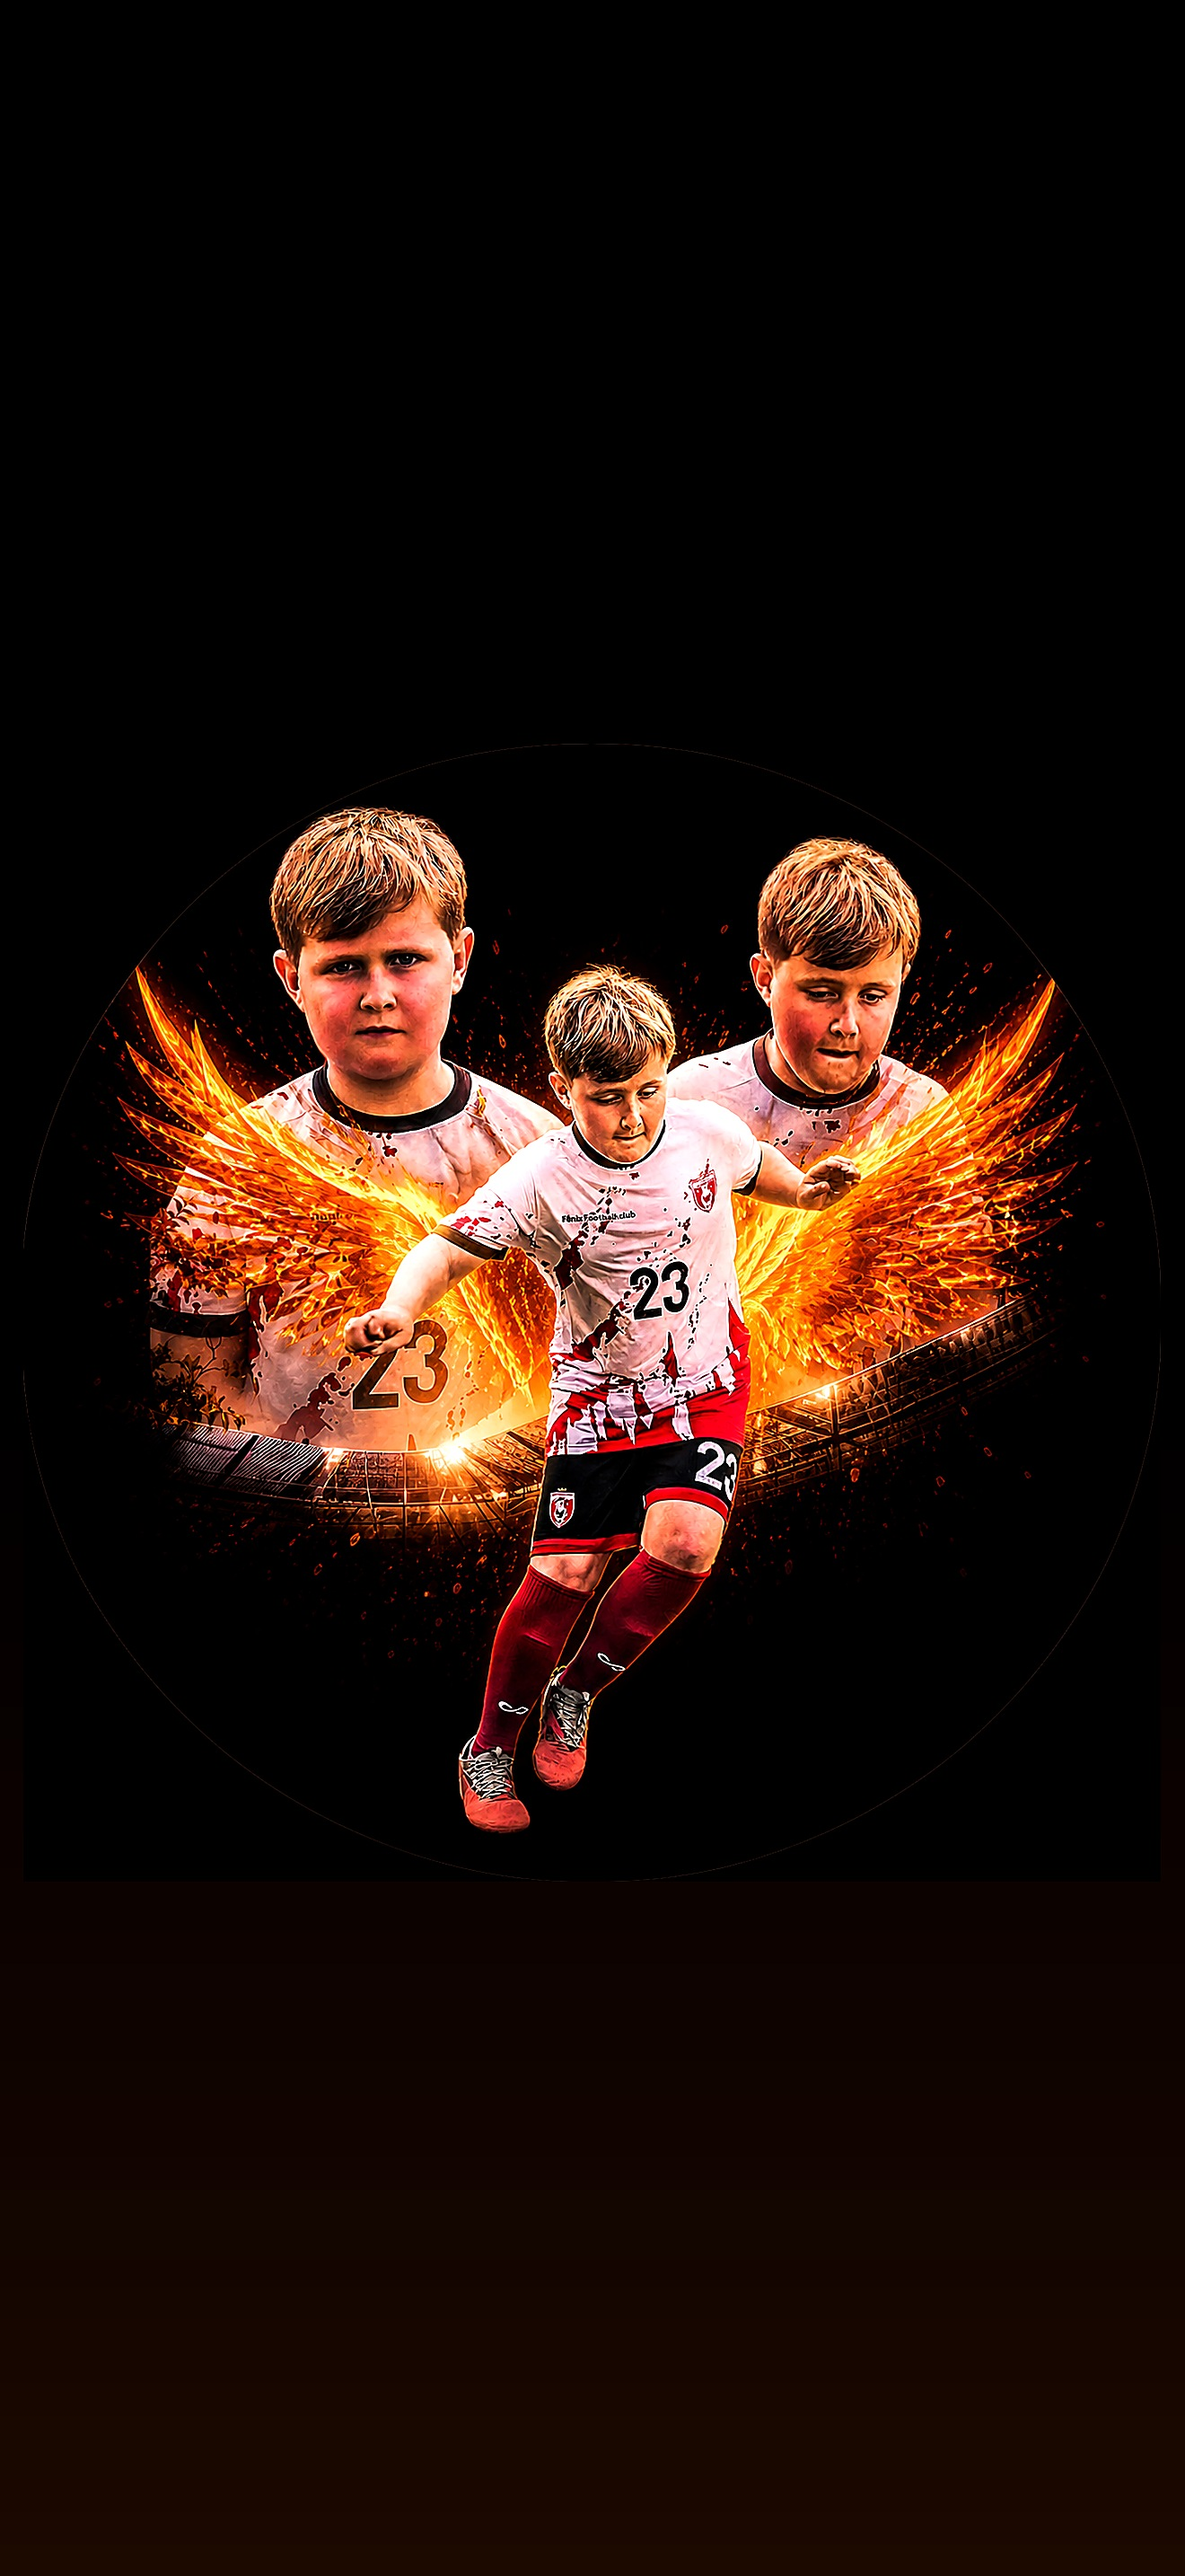
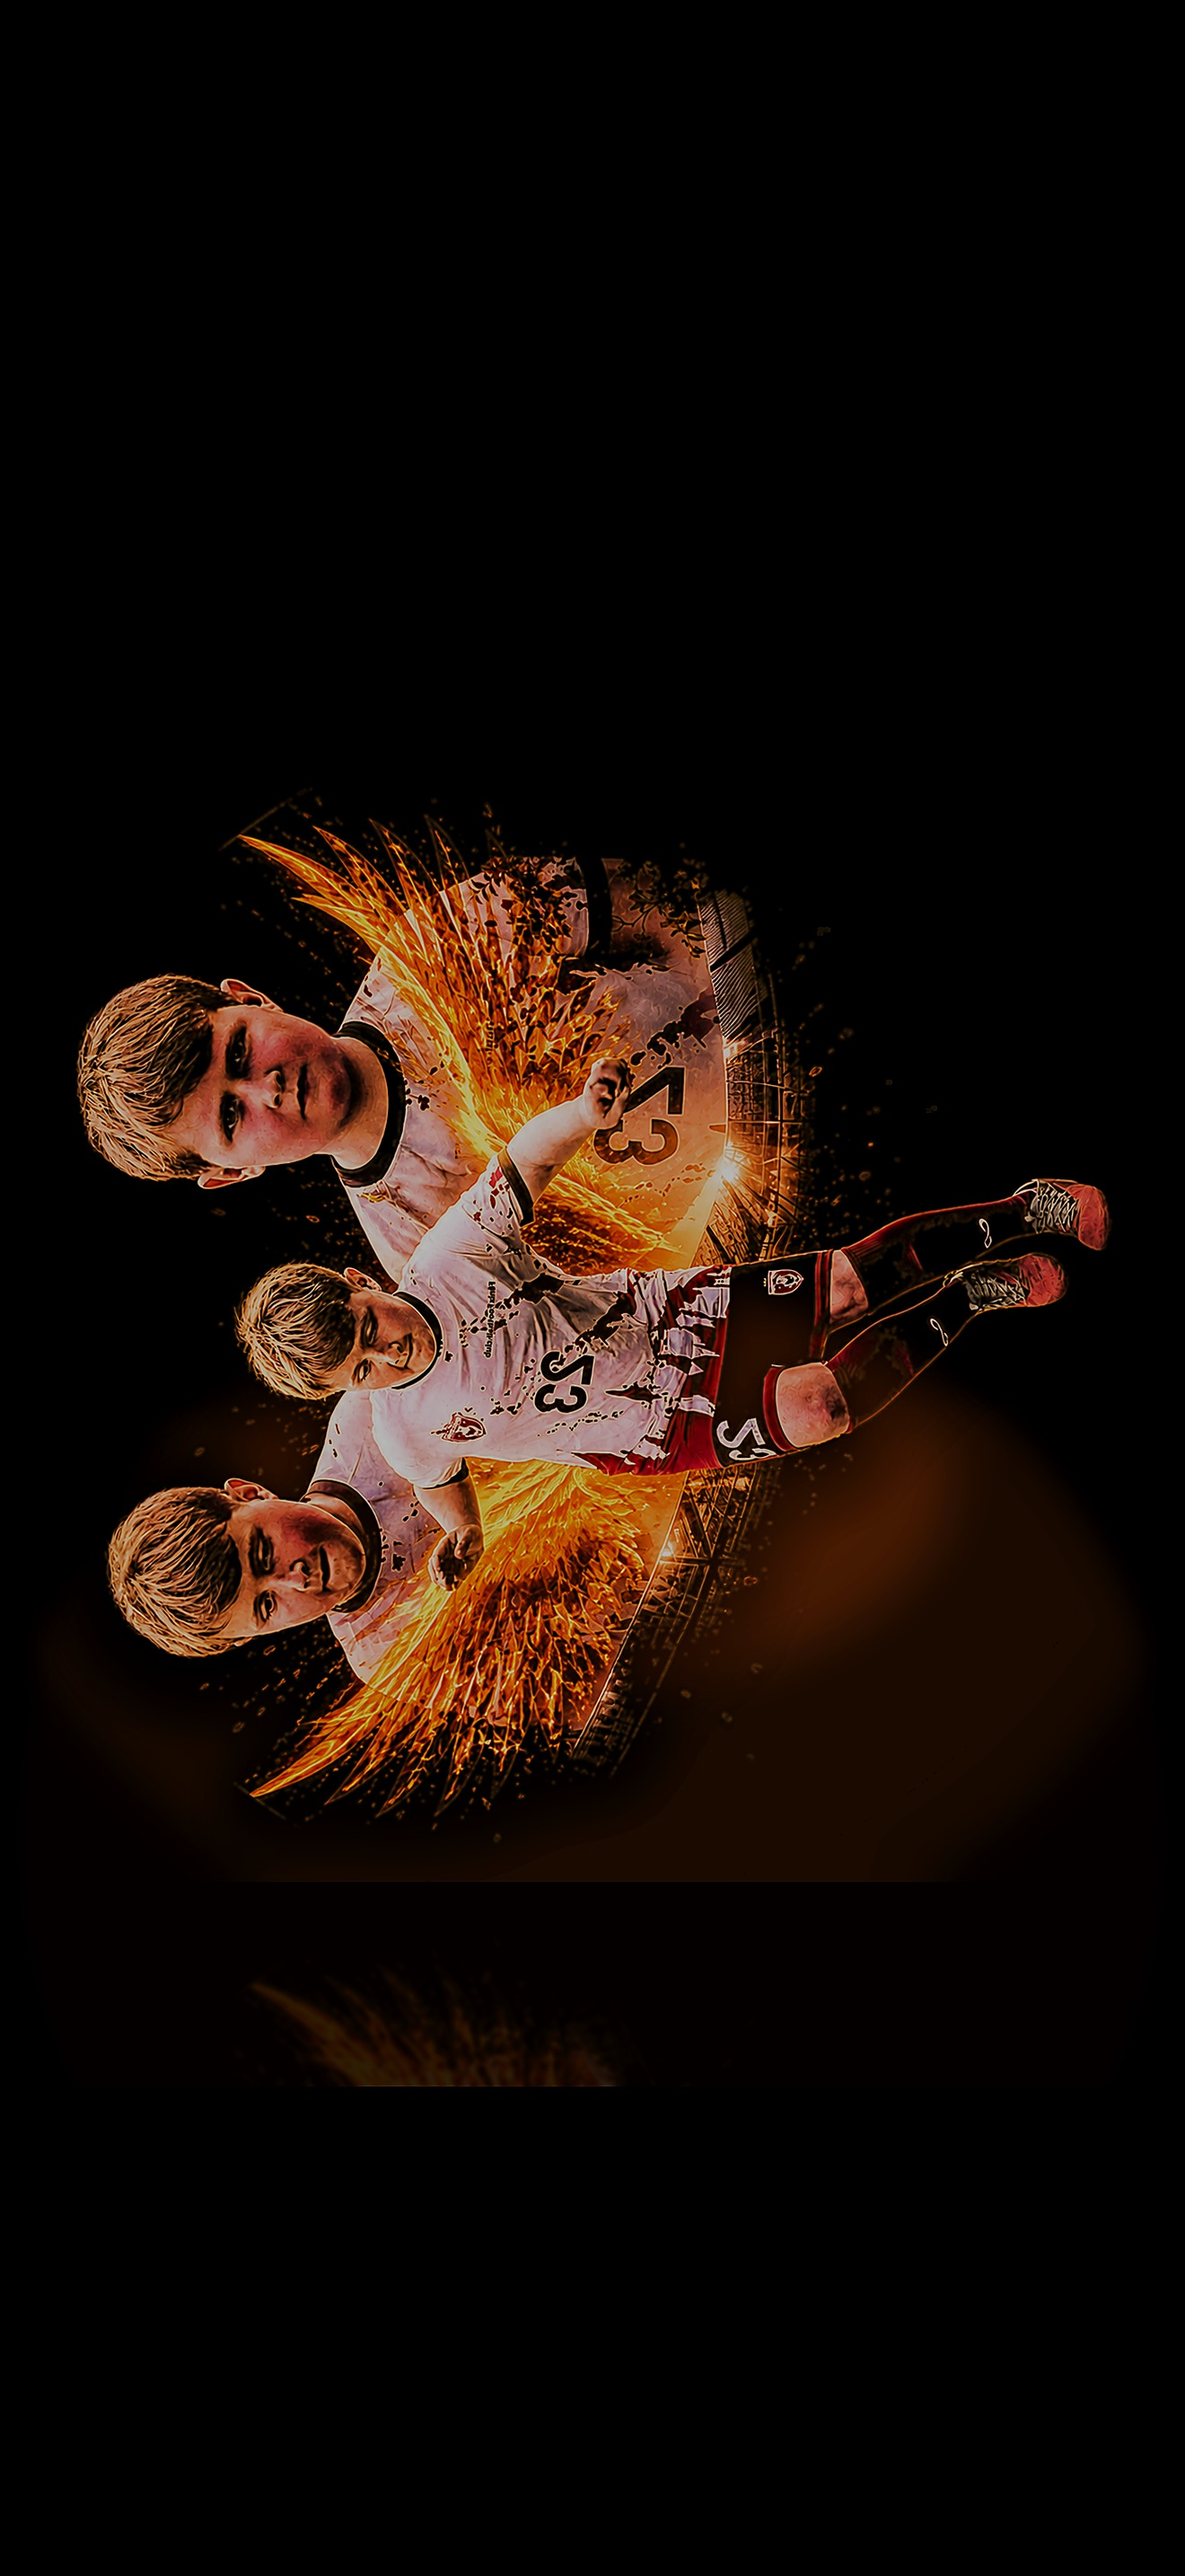
Add 3D depth effects to Fenix Football wallpaper
Layered drop shadows, perspective tilt, rim lighting, floor reflection,
and surface relief on the user's original photo for iPhone 17 Pro Max.

diff --git a/fenix-football-wallpaper/enhance_original.py b/fenix-football-wallpaper/enhance_original.py
@@ -6,7 +6,8 @@ from __future__ import annotations
 import sys
 from pathlib import Path
 
-from PIL import Image, ImageEnhance, ImageFilter, ImageOps
+import numpy as np
+from PIL import Image, ImageChops, ImageDraw, ImageEnhance, ImageFilter, ImageOps
 
 TARGET_W, TARGET_H = 1320, 2868  # iPhone 17 Pro Max native resolution
 OUT_DIR = Path(__file__).resolve().parent
@@ -29,44 +30,168 @@ def find_original() -> Path:
     )
 
 
+def luminance_alpha(rgba: Image.Image, threshold: int = 18) -> Image.Image:
+    """Build a soft alpha matte from dark-background artwork."""
+    rgb = np.array(rgba.convert("RGB"), dtype=np.float32)
+    lum = 0.2126 * rgb[:, :, 0] + 0.7152 * rgb[:, :, 1] + 0.0722 * rgb[:, :, 2]
+    alpha = np.clip((lum - threshold) * 4.0, 0, 255).astype(np.uint8)
+    alpha = Image.fromarray(alpha, mode="L").filter(ImageFilter.GaussianBlur(1.2))
+    return alpha
+
+
+def perspective_tilt(img: Image.Image, strength: float = 0.028) -> Image.Image:
+    """Subtle 3D tilt — bottom edge closer to viewer."""
+    w, h = img.size
+    dx = int(w * strength)
+    dy = int(h * strength * 0.35)
+    # Narrower at top, wider at bottom.
+    quad = (dx, dy, w - dx, dy, w, h, 0, h)
+    return img.transform(
+        (w, h),
+        Image.Transform.QUAD,
+        quad,
+        resample=Image.Resampling.BICUBIC,
+    )
+
+
+def drop_shadow(layer: Image.Image, offset: tuple[int, int], blur: int, opacity: int) -> Image.Image:
+    alpha = layer.split()[-1]
+    shadow = Image.new("RGBA", layer.size, (0, 0, 0, 0))
+    shadow_alpha = alpha.filter(ImageFilter.GaussianBlur(blur))
+    shadow_alpha = ImageEnhance.Brightness(shadow_alpha).enhance(opacity / 255)
+    shadow.putalpha(shadow_alpha)
+    canvas = Image.new("RGBA", layer.size, (0, 0, 0, 0))
+    canvas.alpha_composite(shadow, offset)
+    return canvas
+
+
+def floor_reflection(layer: Image.Image, fade: float = 0.28) -> Image.Image:
+    """Soft mirror reflection beneath the graphic."""
+    w, h = layer.size
+    reflected = ImageOps.flip(layer)
+    mask = Image.new("L", (w, h), 0)
+    draw = ImageDraw.Draw(mask)
+    for y in range(h):
+        t = y / max(h - 1, 1)
+        draw.line([(0, y), (w, y)], fill=int(255 * fade * (1 - t**1.6)))
+    reflected.putalpha(ImageChops.multiply(reflected.split()[-1], mask))
+    return reflected.filter(ImageFilter.GaussianBlur(2.5))
+
+
+def rim_light(layer: Image.Image) -> Image.Image:
+    """Warm edge highlight for pop-out depth."""
+    rgb = layer.convert("RGB")
+    edges = rgb.filter(ImageFilter.FIND_EDGES).convert("L")
+    edges = ImageEnhance.Contrast(edges).enhance(2.2)
+    edges = edges.filter(ImageFilter.GaussianBlur(1.5))
+    warm = Image.new("RGBA", layer.size, (255, 170, 60, 0))
+    warm.putalpha(edges.point(lambda p: min(int(p * 0.55), 110)))
+    return Image.alpha_composite(layer, warm)
+
+
+def depth_glow(width: int, height: int, cx: int, cy: int) -> Image.Image:
+    """Radial light pool under the artwork."""
+    glow = Image.new("RGBA", (width, height), (0, 0, 0, 0))
+    draw = ImageDraw.Draw(glow)
+    for i, alpha in enumerate(range(90, 0, -6)):
+        r = 120 + i * 38
+        color = (255, 120, 30, alpha)
+        draw.ellipse((cx - r, cy - r, cx + r, cy + r), fill=color)
+    return glow.filter(ImageFilter.GaussianBlur(18))
+
+
+def local_relief(layer: Image.Image) -> Image.Image:
+    """Subtle high-pass relief to add surface depth without changing identity."""
+    rgb = layer.convert("RGB")
+    blur = rgb.filter(ImageFilter.GaussianBlur(3))
+    detail = ImageChops.subtract(rgb, blur)
+    detail = ImageEnhance.Contrast(detail).enhance(1.8)
+    relief = Image.new("RGBA", layer.size, (255, 220, 180, 0))
+    relief.putalpha(detail.convert("L").point(lambda p: min(int(p * 0.35), 70)))
+    return Image.alpha_composite(layer, relief)
+
+
+def apply_depth_3d(scaled: Image.Image) -> Image.Image:
+    """Turn flat artwork into a floating 3D card while preserving the original photo."""
+    rgba = scaled.convert("RGBA")
+    alpha = luminance_alpha(rgba)
+    rgba.putalpha(alpha)
+
+    tilted = perspective_tilt(rgba)
+    lit = rim_light(local_relief(tilted))
+
+    w, h = lit.size
+    pad = int(max(w, h) * 0.18)
+    stage = Image.new("RGBA", (w + pad * 2, h + pad * 2), (0, 0, 0, 0))
+
+    cx, cy = (w + pad * 2) // 2, h + pad - int(h * 0.04)
+    stage.alpha_composite(depth_glow(stage.width, stage.height, cx, cy))
+
+    # Layered shadows = depth.
+    for blur, offset, opacity in ((36, (0, 22), 130), (20, (0, 12), 95), (10, (0, 5), 65)):
+        stage.alpha_composite(drop_shadow(lit, offset, blur, opacity), (pad, pad))
+
+    reflection = floor_reflection(lit, fade=0.16)
+    stage.alpha_composite(reflection, (pad, pad + h + int(h * 0.015)))
+
+    stage.alpha_composite(lit, (pad, pad))
+
+    # Inner vignette on the card for volume.
+    vignette = Image.new("L", (w, h), 255)
+    draw = ImageDraw.Draw(vignette)
+    draw.ellipse((-w * 0.08, -h * 0.08, w * 1.08, h * 1.08), fill=0)
+    vignette = vignette.filter(ImageFilter.GaussianBlur(28))
+    dark = Image.new("RGBA", (w, h), (0, 0, 0, 0))
+    dark.putalpha(vignette.point(lambda p: int((255 - p) * 0.35)))
+    card = stage.crop((pad, pad, pad + w, pad + h))
+    card = Image.alpha_composite(card, dark)
+    stage.paste(card, (pad, pad), card)
+
+    return stage
+
+
 def build_portrait_canvas(src: Image.Image) -> Image.Image:
-    """Center the source graphic on a portrait canvas sized for Pro Max."""
+    """Center the 3D-enhanced graphic on a portrait canvas sized for Pro Max."""
     src = src.convert("RGBA")
     sw, sh = src.size
 
-    # Scale to fit width with breathing room; keep full graphic visible.
     max_w = int(TARGET_W * 0.96)
     max_h = int(TARGET_H * 0.86)
     scale = min(max_w / sw, max_h / sh)
     new_size = (max(1, int(sw * scale)), max(1, int(sh * scale)))
     scaled = src.resize(new_size, Image.Resampling.LANCZOS)
 
-    # Dark background pulled from image corners (preserves black/fire look).
+    depth_layer = apply_depth_3d(scaled)
+
     rgb_src = src.convert("RGB")
     corner = rgb_src.getpixel((min(10, sw - 1), min(10, sh - 1)))
-    canvas = Image.new("RGB", (TARGET_W, TARGET_H), corner)
+    if sum(corner) > 40:
+        corner = (0, 0, 0)
+    canvas = Image.new("RGBA", (TARGET_W, TARGET_H), corner + (255,))
 
-    # Soft vertical glow extension from lower fire tones.
-    glow = Image.new("RGBA", (TARGET_W, TARGET_H), (0, 0, 0, 0))
-    for y in range(TARGET_H // 2, TARGET_H):
-        alpha = int(40 * (y - TARGET_H // 2) / (TARGET_H // 2))
-        for x in range(TARGET_W):
-            glow.putpixel((x, y), (180, 70, 20, alpha))
-    canvas = Image.alpha_composite(canvas.convert("RGBA"), glow).convert("RGB")
+    # Subtle atmospheric glow behind the card only.
+    atm = Image.new("RGBA", (TARGET_W, TARGET_H), (0, 0, 0, 0))
+    draw = ImageDraw.Draw(atm)
+    glow_y = int(TARGET_H * 0.55)
+    draw.ellipse(
+        (TARGET_W // 2 - 420, glow_y - 180, TARGET_W // 2 + 420, glow_y + 320),
+        fill=(255, 100, 25, 45),
+    )
+    atm = atm.filter(ImageFilter.GaussianBlur(35))
+    canvas = Image.alpha_composite(canvas, atm)
 
-    x = (TARGET_W - scaled.width) // 2
-    y = int(TARGET_H * 0.08) + (max_h - scaled.height) // 2
-    canvas.paste(scaled, (x, y), scaled)
-    return canvas
+    x = (TARGET_W - depth_layer.width) // 2
+    y = int(TARGET_H * 0.08) + (max_h - depth_layer.height) // 2
+    canvas.alpha_composite(depth_layer, (x, y))
+    return canvas.convert("RGB")
 
 
 def enhance(img: Image.Image) -> Image.Image:
-    img = ImageEnhance.Contrast(img).enhance(1.08)
-    img = ImageEnhance.Color(img).enhance(1.06)
+    img = ImageEnhance.Contrast(img).enhance(1.1)
+    img = ImageEnhance.Color(img).enhance(1.08)
     img = ImageEnhance.Brightness(img).enhance(1.02)
-    img = ImageEnhance.Sharpness(img).enhance(1.2)
-    # Mild local contrast without changing composition.
-    img = img.filter(ImageFilter.UnsharpMask(radius=1.2, percent=110, threshold=3))
+    img = ImageEnhance.Sharpness(img).enhance(1.25)
+    img = img.filter(ImageFilter.UnsharpMask(radius=1.4, percent=125, threshold=2))
     return img
 
 
@@ -77,13 +202,14 @@ def main() -> int:
     original = Image.open(src_path)
     original = ImageOps.exif_transpose(original)
 
-    # If already portrait-ish and large enough, upscale directly; else compose.
     w, h = original.size
     if w / h > 0.55:
         work = build_portrait_canvas(original)
     else:
         work = original.convert("RGB")
-        work = ImageOps.fit(work, (TARGET_W, TARGET_H), method=Image.Resampling.LANCZOS, centering=(0.5, 0.45))
+        work = ImageOps.fit(
+            work, (TARGET_W, TARGET_H), method=Image.Resampling.LANCZOS, centering=(0.5, 0.45)
+        )
 
     enhanced = enhance(work)
 
